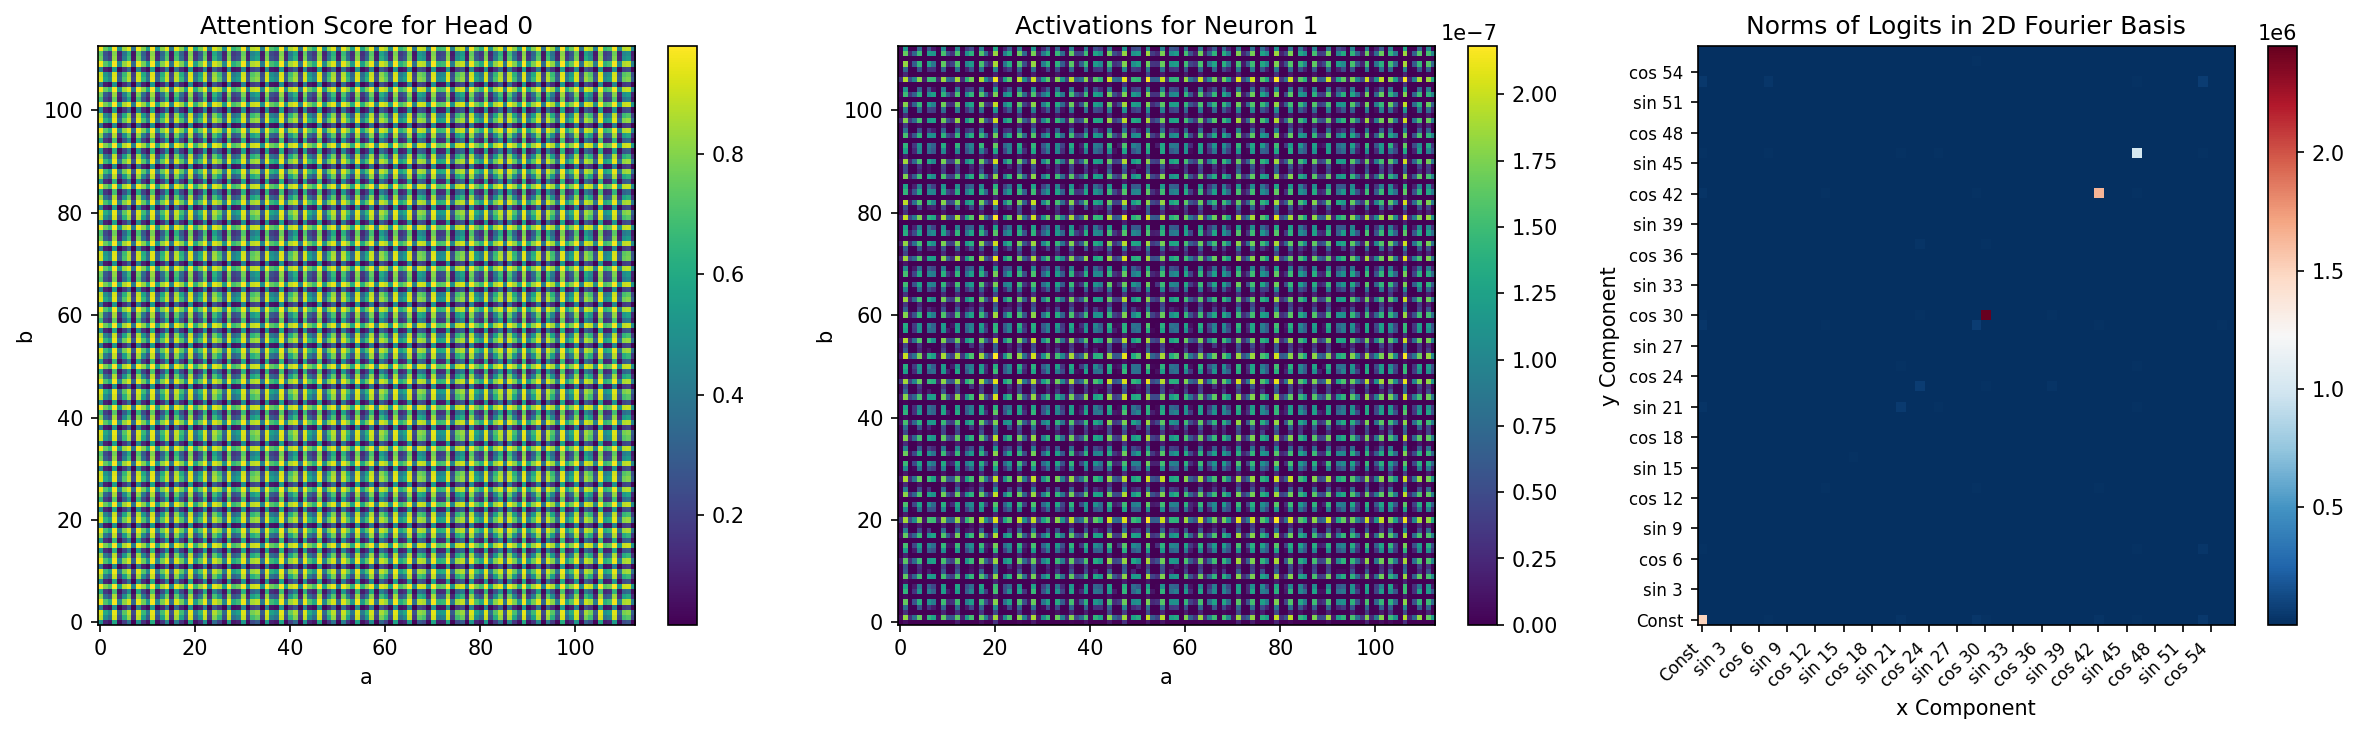
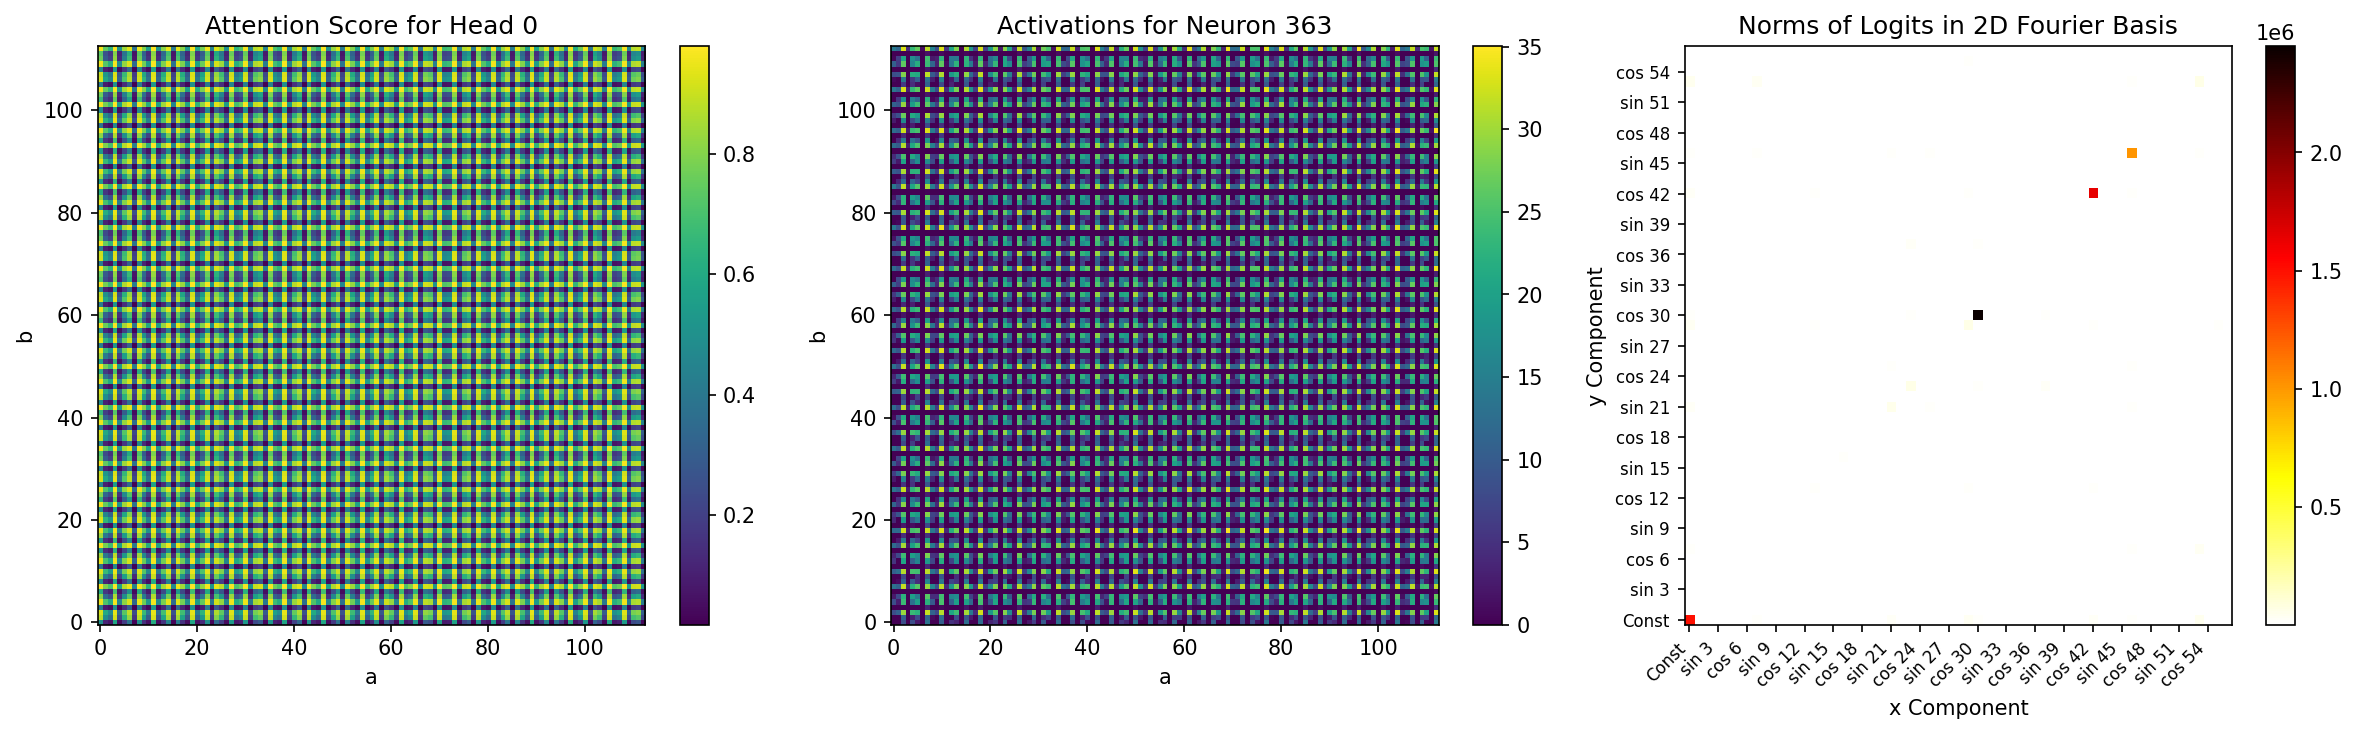
backup

diff --git a/src/transformer_progress_measures/analysis/figure4.py b/src/transformer_progress_measures/analysis/figure4.py
@@ -205,11 +205,12 @@ def main(
     plt.colorbar(im1, ax=axes[1])
 
     # Right: Norms of Logits in 2D Fourier Basis
+    # Use a colormap with white background for low values
     im2 = axes[2].imshow(
         logits_fourier_norm_np.T,
         origin="upper",
         aspect="auto",
-        cmap="RdBu_r",
+        cmap="hot_r",  # White background for low values
     )
     axes[2].set_title("Norms of Logits in 2D Fourier Basis")
 
